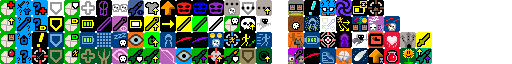
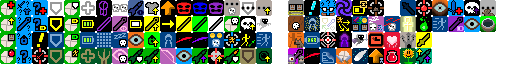
1.1.7: more designing and whatever

Changed region(s): [[0.7812, 0.0, 0.9688, 0.5]]

diff --git a/core/src/main/java/com/shatteredpixel/shatteredpixeldungeon/scenes/HeroSelectScene.java b/core/src/main/java/com/shatteredpixel/shatteredpixeldungeon/scenes/HeroSelectScene.java
@@ -369,7 +369,7 @@ public class HeroSelectScene extends PixelScene {
 					break;
 				case CONJURER:
 					tabIcons = new Image[]{
-							new ItemSprite(ItemSpriteSheet.ARTIFACT_LOVE1, null),
+							new ItemSprite(ItemSpriteSheet.BOOK, null),
 							new ItemSprite(ItemSpriteSheet.ARMOR_CONJURER, null),
 							new Image(Assets.Interfaces.BUFFS_LARGE, 112, 32, 16, 16)
 					};
@@ -384,7 +384,41 @@ public class HeroSelectScene extends PixelScene {
 			talents.active = talents.visible = false;
 
 			if (cl == HeroClass.ROGUE){
+				firstSub = new RedButton(Messages.titleCase(cl.subClasses()[0].title()), 7){
+					@Override
+					protected void onClick() {
+						super.onClick();
+						if (secondSubclass){
+							secondSubclass = false;
+							hide();
+							WndHeroInfo newWindow = new WndHeroInfo(cl);
+							newWindow.talents.scrollTo(0, talents.content().camera.scroll.y);
+							newWindow.select(3);
+							ShatteredPixelDungeon.scene().addToFront(newWindow);
+						}
+					}
+				};
+				if (!secondSubclass) firstSub.textColor(Window.TITLE_COLOR);
+				firstSub.setSize(40, firstSub.reqHeight()+2);
+				add(firstSub);
 
+				secondSub = new RedButton(Messages.titleCase(cl.subClasses()[1].title()), 7){
+					@Override
+					protected void onClick() {
+						super.onClick();
+						if (!secondSubclass){
+							secondSubclass = true;
+							hide();
+							WndHeroInfo newWindow = new WndHeroInfo(cl);
+							newWindow.talents.scrollTo(0, talents.content().camera.scroll.y);
+							newWindow.select(3);
+							ShatteredPixelDungeon.scene().addToFront(newWindow);
+						}
+					}
+				};
+				if (secondSubclass) secondSub.textColor(Window.TITLE_COLOR);
+				secondSub.setSize(40, secondSub.reqHeight()+2);
+				add(secondSub);
 			}
 
 			tab = new IconTab( tabIcons[0] ){
@@ -433,6 +467,8 @@ public class HeroSelectScene extends PixelScene {
 							info.text(Messages.get(WndHeroInfo.class, "talents_desc"), INFO_WIDTH);
 						}
 						talents.visible = talents.active = value;
+						firstSub.visible = firstSub.active = value;
+						secondSub.visible = secondSub.active = value;
 					}
 				};
 				add(tab);

diff --git a/core/src/main/java/com/shatteredpixel/shatteredpixeldungeon/actors/hero/Talent.java b/core/src/main/java/com/shatteredpixel/shatteredpixeldungeon/actors/hero/Talent.java
@@ -63,7 +63,19 @@ public enum Talent {
     SPYDER_MAN(119, 3),
     DETERMINED(120, 3),
     MY_SUNSHINE(121, 3),
-    OLYMPIC_SKILLS(122, 3);
+    OLYMPIC_SKILLS(122, 3),
+    REAL_KNIFE_MASTER(25, 3),
+    BLOOD_DRIVE(26, 3),
+    UNSETTLING_GAZE(27, 3),
+    SUPPORT_POTION(28, 3),
+    WITCHING_STRIKE(29, 3),
+    SILENCE_OF_LAMBS(30, 3),
+    BLESSING_OF_SANITY(57, 3),
+    GUIDANCE_FLAME(58, 3),
+    SPEEDY_STEALTH(59, 3),
+    THAUMATURGY(60, 3),
+    SHARP_VISION(61, 3),
+    CHEMISTRY_DEGREE(62, 3);
 
     int icon;
     int maxPoints;
@@ -139,19 +151,26 @@ public enum Talent {
     }
 
     public static void initSubclassTalents( HeroSubClass cls, ArrayList<LinkedHashMap<Talent, Integer>> talents ){
-//        if (cls == HeroSubClass.NONE) return;
-//
-//        while (talents.size() < MAX_TALENT_TIERS){
-//            talents.add(new LinkedHashMap<>());
-//        }
-//
-//        ArrayList<Talent> tierTalents = new ArrayList<>();
-//
-//
-//        for (Talent talent : tierTalents){
-//            talents.get(2).put(talent, 0);
-//        }
-//        tierTalents.clear();
+        if (cls == HeroSubClass.NONE) return;
+
+        while (talents.size() < MAX_TALENT_TIERS){
+            talents.add(new LinkedHashMap<>());
+        }
+
+        ArrayList<Talent> tierTalents = new ArrayList<>();
+        switch (cls){
+            case ASSASSIN:
+                Collections.addAll(tierTalents, REAL_KNIFE_MASTER, BLOOD_DRIVE, UNSETTLING_GAZE, SUPPORT_POTION, WITCHING_STRIKE, SILENCE_OF_LAMBS);
+                break;
+            case FREERUNNER:
+                Collections.addAll(tierTalents, BLESSING_OF_SANITY, GUIDANCE_FLAME, SPEEDY_STEALTH, THAUMATURGY, SHARP_VISION, CHEMISTRY_DEGREE);
+                break;
+        }
+
+        for (Talent talent : tierTalents){
+            talents.get(2).put(talent, 0);
+        }
+        tierTalents.clear();
     }
 
     private static final String TALENT_TIER = "talents_tier_";
